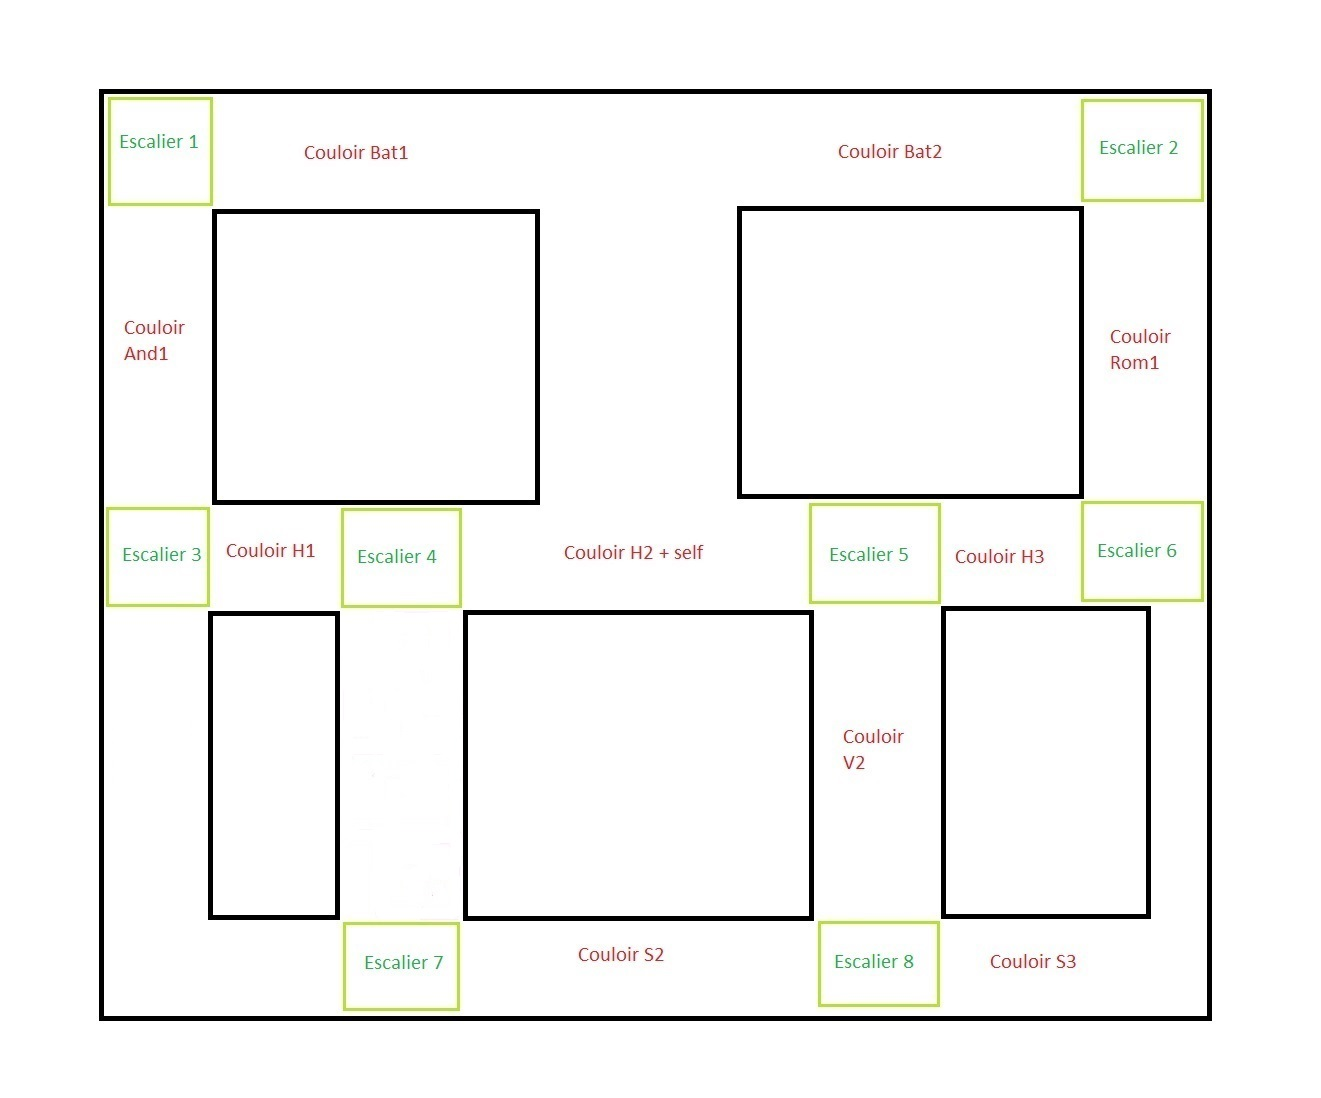
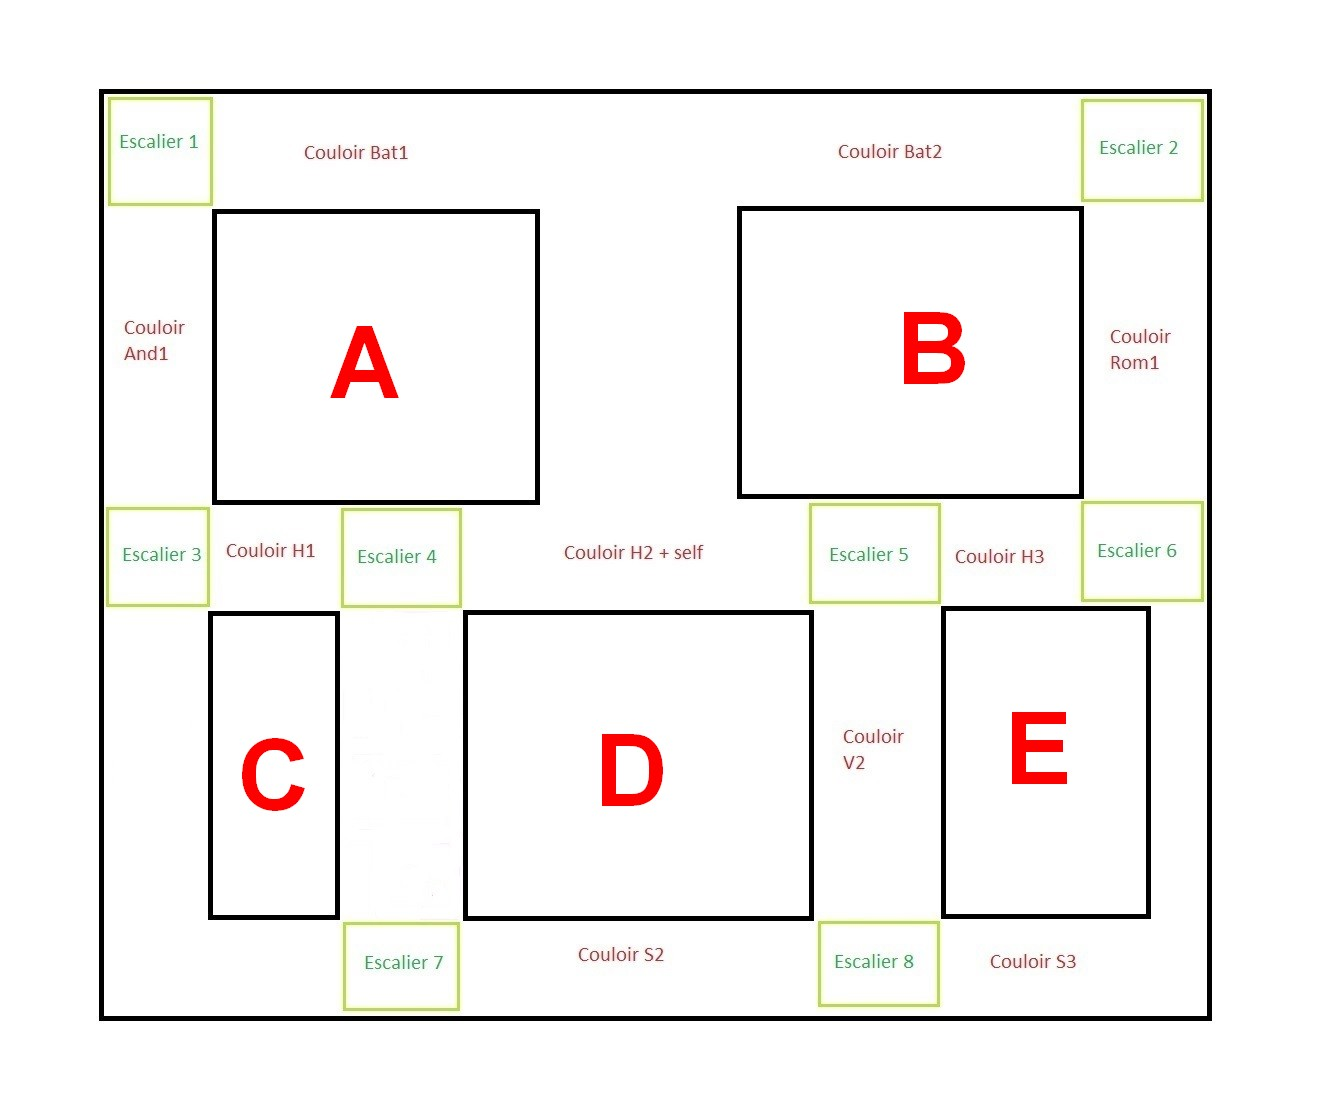
PNJ + map
+ajout de la cours intermédiaire
+changement de certains noms de régions
+ajout du dialogue de pnj
+le dragon est LIIIIBRE
+on a sauvé un chêne

diff --git a/dessin.py b/dessin.py
@@ -20,15 +20,15 @@ import texte
 import save
 import elementDessin as elt
 
-SCR_WIDTH   = 20   #largeur de l'écran (en termes de nombre de cases)
-SCR_HEIGHT  = 10   #hauteur de l'écran
+SCR_WIDTH   = 0   #largeur de l'écran (pixels)
+SCR_HEIGHT  = 0   #hauteur de l'écran (pixels)
 
 xOffset = 0
 yOffset = 0
 
 sprites = {}
 
-listStyleSprites =   ["v" ,"s","p"                               #vide , sol , planches
+listStyleSprites =   ["v" ,"s" ,"s2","p"                         #vide , sol 1/2 , planches
                      ,"m1","m2","m3","m4","m5","m6","m7","m8"    #murs
                      ,"a1","a2","a3","a4","a5","a6","a7","a8"    #angles interieurs
                      ,"b1","b2","b3","b4","b5","b6","b7","b8"    #angles exterieurs
@@ -63,6 +63,7 @@ interfaceBoutonsQuetes = []
 interfaceBoutonsQuetesEtendue = []
 interfaceBoutonsQuetesAffiches = []
 interfaceDrops = []
+interfaceDialoguePNJ = None
 
 #surfaces de l'overlay en jeu
 overlayBack = None
@@ -252,6 +253,7 @@ def initCharge(fenetre):
         mouse.boutons["charger"][b.texte].linkElement(b)
 
 def initInterface(quetes):
+    #initialise l'interface des quêtes
     global interfaceBoutonsQuetes,interfaceBoutonsQuetesEtendue,interfaceBoutonsQuetesAffiches,interfaceQuetes
     interfaceBoutonsQuetes = []
     interfaceBoutonsQuetesEtendue = []
@@ -271,6 +273,10 @@ def initInterface(quetes):
             interfaceBoutonsQuetesAffiches.append(cadre)
             pos += bt.h
     interfaceQuetes.setWidgets(interfaceBoutonsQuetesAffiches)
+    #crée le bouton texte des PNJs
+    global interfaceDialoguePNJ
+    interfaceDialoguePNJ = elt.BoutonTexte(0,0,int(64*SCR_WIDTH),100,10,(20,20,20),(200,200,200),buttonFontXXS," ",(0,128,255),multiLine = True)
+    interfaceDialoguePNJ.setBot( int(64*SCR_HEIGHT) )
 
 def reloadInterface(quetes):
     global interfaceBoutonsQuetes,interfaceBoutonsQuetesEtendue
@@ -416,7 +422,8 @@ def loadAnimSprite(spriteName,directory):
 
 def loadStyle(styleName):
     sprites[styleName] = {}
-    sprites[styleName]["sol"] = getLoaded( "Tiles/"+styleName+"/sol.bmp" )
+    sprites[styleName]["sol"]  = getLoaded( "Tiles/"+styleName+"/sol.bmp" )
+    sprites[styleName]["sol2"] = getLoaded( "Tiles/"+styleName+"/sol2.bmp" )
     
     sprites[styleName]["mur"]    = []
     for i in range(8):
@@ -556,6 +563,9 @@ def drawOverlay(fenetre):
 def drawInterface(fenetre):
     interfaceQuetes.drawOn(fenetre)
 
+def drawDialogue(fenetre):
+    interfaceDialoguePNJ.drawOn(fenetre)
+
 def drawOverlayQuit(fenetre):
     overlayQuit.drawOn(fenetre)
     overlayYesNo.drawOn(fenetre)
@@ -637,6 +647,8 @@ def drawCase(fenetre,region,x,y,activeOffset = True):
         pass
     elif region.at(x,y) == "s":
         fenetre.blit(sprites[drawStyle]["sol"] , (xEcran,yEcran))
+    elif region.at(x,y) == "s2":
+        fenetre.blit(sprites[drawStyle]["sol2"] , (xEcran,yEcran))
     elif region.at(x,y) == "p":
         fenetre.blit(sprites[drawStyle]["sol"] , (xEcran,yEcran))
         fenetre.blit(sprites["planche"] , (xEcran,yEcran))

diff --git a/game.py b/game.py
@@ -35,6 +35,9 @@ ennemiList = []
 #inventaire ouvert et affiché
 inventaireOuvert = False
 
+#dialogue
+dialogueActif = [None,""]
+
 #initialisation du jeu
 def init():
     global ennemiList
@@ -90,9 +93,12 @@ def draw(fenetre):
         posY = (fenetre.get_height()-s.get_height())//2-o
         fenetre.blit(s,(posX,posY))
     
+    dessin.drawATH(fenetre,player)
     if dessin.interfaceQueteOn:
         dessin.drawInterface(fenetre)
-    dessin.drawATH(fenetre,player)
+    
+    if dialogueActif[0]:
+        dessin.drawDialogue(fenetre)
     
     #inventaire
     if inventaireOuvert:
@@ -196,13 +202,22 @@ def actionKeys(listPressed):
     
     
 def findPNG():
+    global dialogueActif
     region = map.theMap.regionList[player.position[0]]
     px , py = player.position[1] , player.position[2]
     
+    trouve = False
     for p in region.PNGlist:
         if (px-p.position[0])**2 + (py-p.position[1])**2 < 2 ** 2:
-            print(p.name+":")
-            print(p.texte)
+            if p == dialogueActif[0]:
+                dialogueActif = [p,p.getNextId(dialogueActif[1])]
+            else:
+                dialogueActif = [p,p.getNextId()]
+            txt = p.name+": "+p.getText(dialogueActif[1])
+            dessin.interfaceDialoguePNJ.updateTexte(txt)
+            trouve = True
+    if not trouve:
+        dialogueActif = [None,""]
 
 #supprime un ennemi, et gère le reste
 def mortEnnemi(ennemi):

diff --git a/map.py b/map.py
@@ -284,6 +284,8 @@ class Map:
         self.regionList["salle/1.V1.3"] = Region("salle/1.V1.3")
         self.regionList["salle/1.V1.4"] = Region("salle/1.V1.4")
         
+        self.regionList["salle/E.1"] = Region("salle/E.1")
+        
         self.regionList["couloir/1.V1"]  = Region("couloir/1.V1")
         self.regionList["couloir/1.V1N"] = Region("couloir/1.V1N")
         self.regionList["couloir/2.V1"]  = Region("couloir/2.V1")
@@ -294,8 +296,8 @@ class Map:
         self.regionList["escalier/0_5.7"] = Region("escalier/0_5.7")
         self.regionList["escalier/0.7"] = Region("escalier/0.7")
         
-        self.regionList["base"]    = Region("base")
-        self.regionList["atelier"] = Region("atelier")
+        self.regionList["cours/D"] = Region("cours/D")
+        self.regionList["cours/E"] = Region("cours/E")
 
 
 

diff --git a/elementDessin.py b/elementDessin.py
@@ -294,6 +294,9 @@ class BoutonTexte(BoutonRempli):
                 while True:
                     #enlève 1 mot de la fin
                     pos = lines[current].rfind(" ")
+                    if "\n" in lines[current][:pos]:
+                        pos = lines[current].lfind("\n")
+                        lines[current].replace("\n"," ",1)
                     if lastLine == "":
                         lastLine = lines[current][pos+1:]
                     else:

diff --git a/PNG.py b/PNG.py
@@ -17,3 +17,10 @@ class PNG():
             print("no load pnj",e)
         else:
             file.close()
+    
+    def getText(self,id):
+        return self.texte
+    
+    #trouve le prochain texte à afficher
+    def getNextId(self,prev=0):
+        return prev+1
